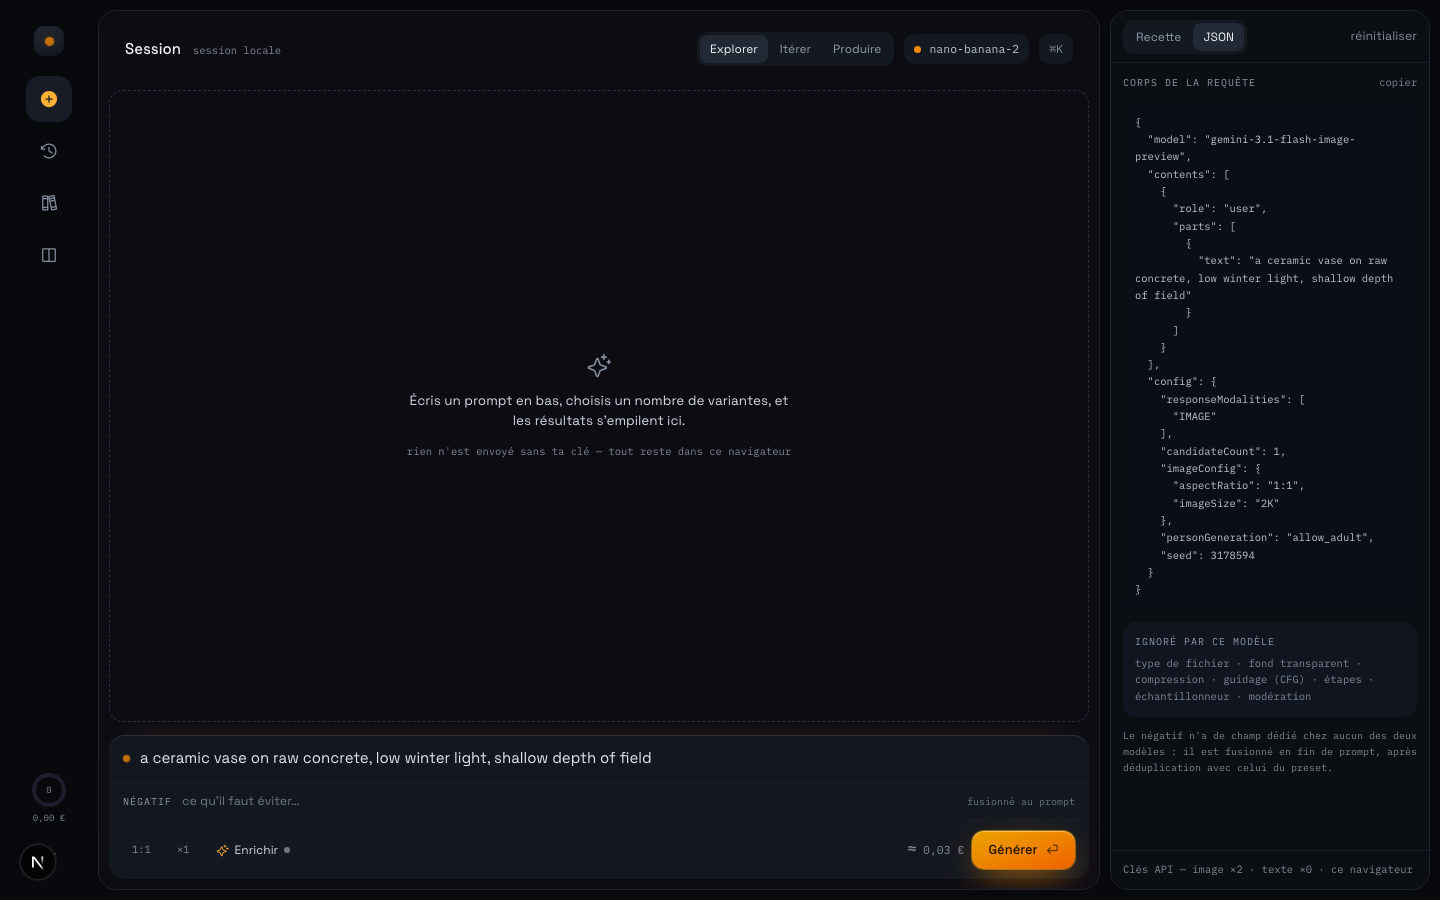
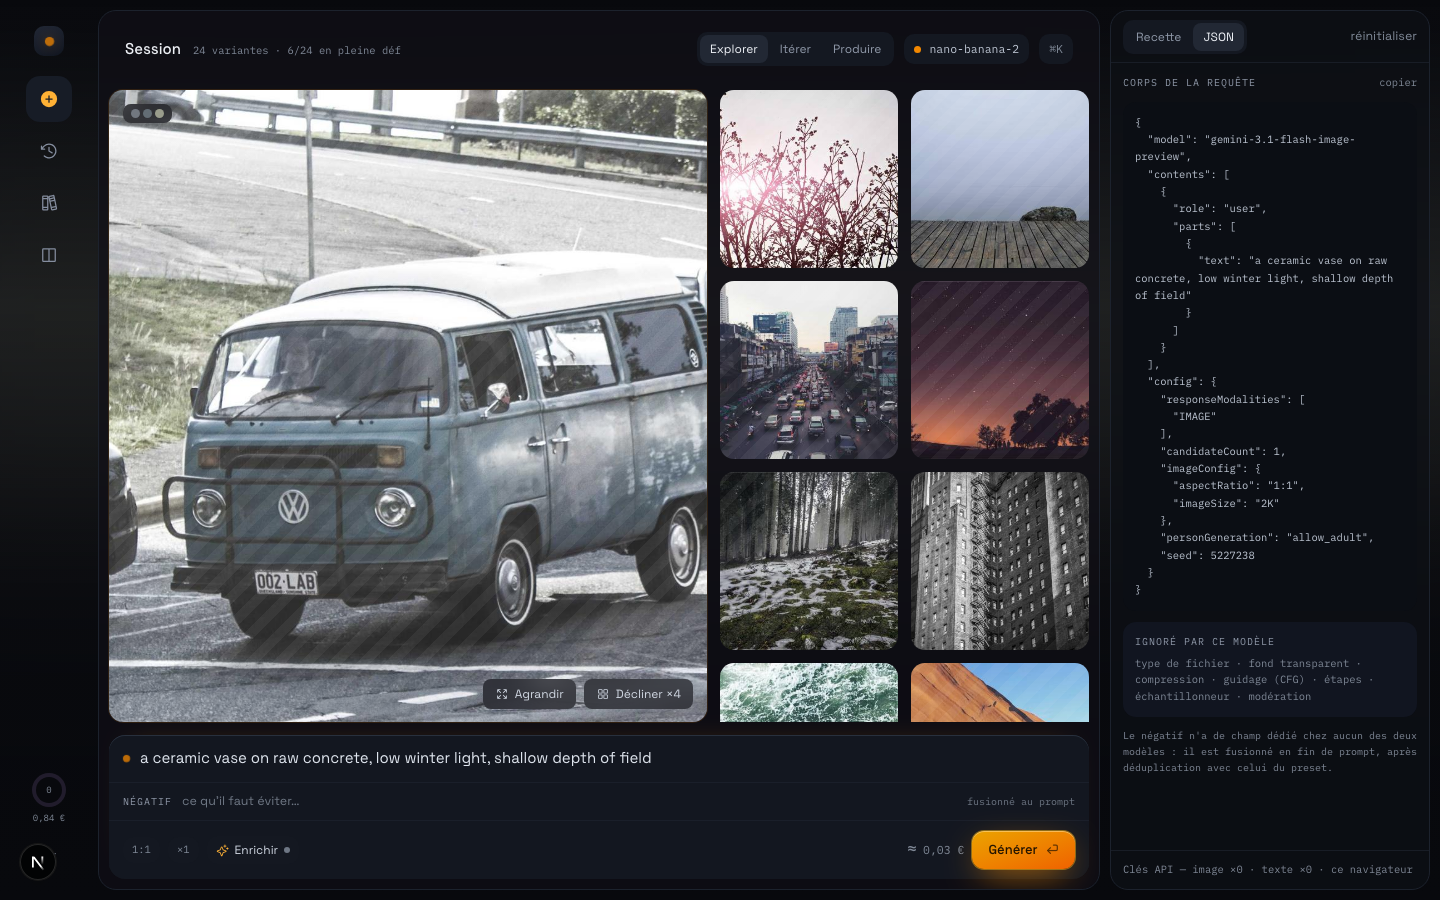
docs: captures du README sur une session de démonstration
Les deux captures montraient un canvas vide : on ne voyait ni la galerie,
ni le compteur de session, ni ce que l'atelier fait d'une vraie série.

Ajoute `scripts/screenshots.mjs`, qui ouvre l'app, déclenche la commande
de démonstration et écrit les deux PNG en 1440×900. Une légende sous
chaque capture dit que les visuels sont des photos libres de droit et non
des sorties de modèle — sans quoi le README laisserait croire l'inverse.

diff --git a/README.fr.md b/README.fr.md
@@ -12,7 +12,9 @@ Un prompt, plusieurs modèles côte à côte — pas de compte, pas de base de d
 
 [Démarrage](#démarrage) · [Pourquoi](#pourquoi) · [Modèles](#modèles) · [Fonctionnement](#fonctionnement) · [English](README.md)
 
-<img src="docs/screenshot.png" alt="L'atelier img-creator : rail d'outils, canvas, composer et panneau de réglages" width="900">
+<img src="docs/screenshot.png" alt="L'atelier img-creator : rail d'outils, canvas rempli d'une session de 24 images, composer et panneau de réglages" width="900">
+
+<sub>Session de démonstration : les visuels sont des photos libres de droit, pas des sorties de modèle. Regénérer les captures avec <code>node scripts/screenshots.mjs</code>.</sub>
 
 </div>
 

diff --git a/README.md b/README.md
@@ -12,7 +12,9 @@ One prompt, several models, side by side — no account, no database, no server 
 
 [Quick start](#quick-start) · [Why](#why) · [Models](#models) · [How it works](#how-it-works) · [Français](README.fr.md)
 
-<img src="docs/screenshot.png" alt="The img-creator workshop: tool rail, canvas, composer and settings panel" width="900">
+<img src="docs/screenshot.png" alt="The img-creator workshop: tool rail, canvas holding a 24-image session, composer and settings panel" width="900">
+
+<sub>Demo session: the visuals are royalty-free photographs, not model output. Regenerate the screenshots with <code>node scripts/screenshots.mjs</code>.</sub>
 
 </div>
 
